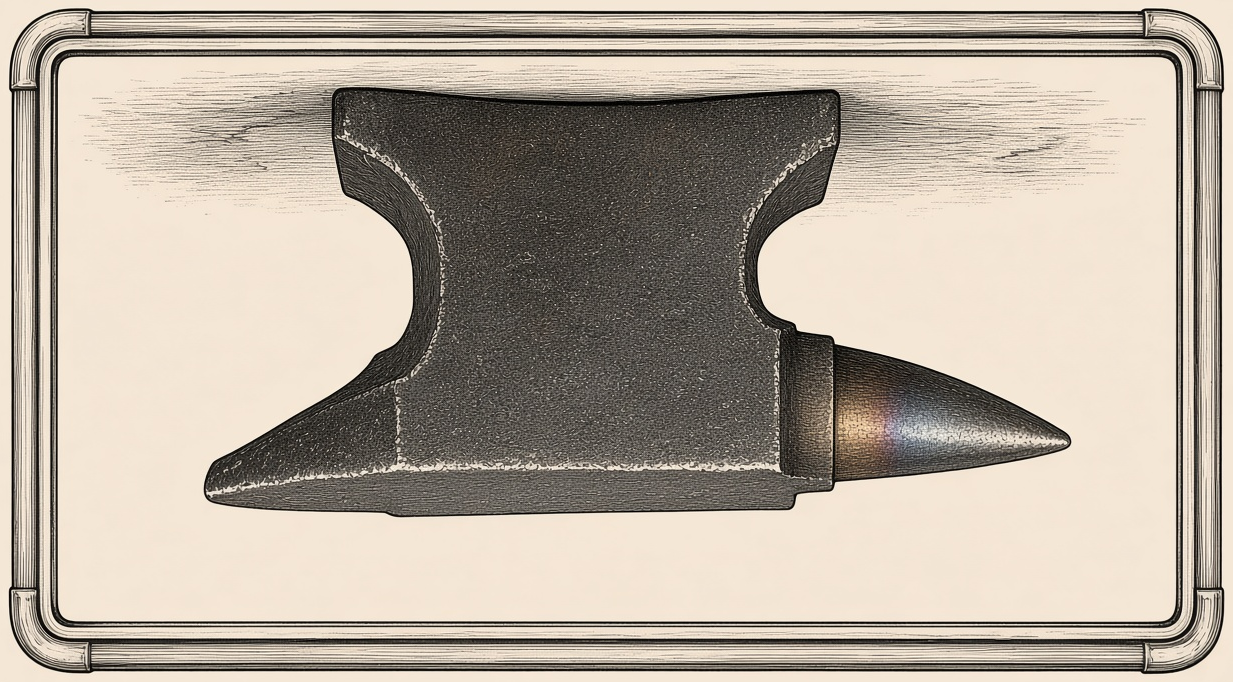
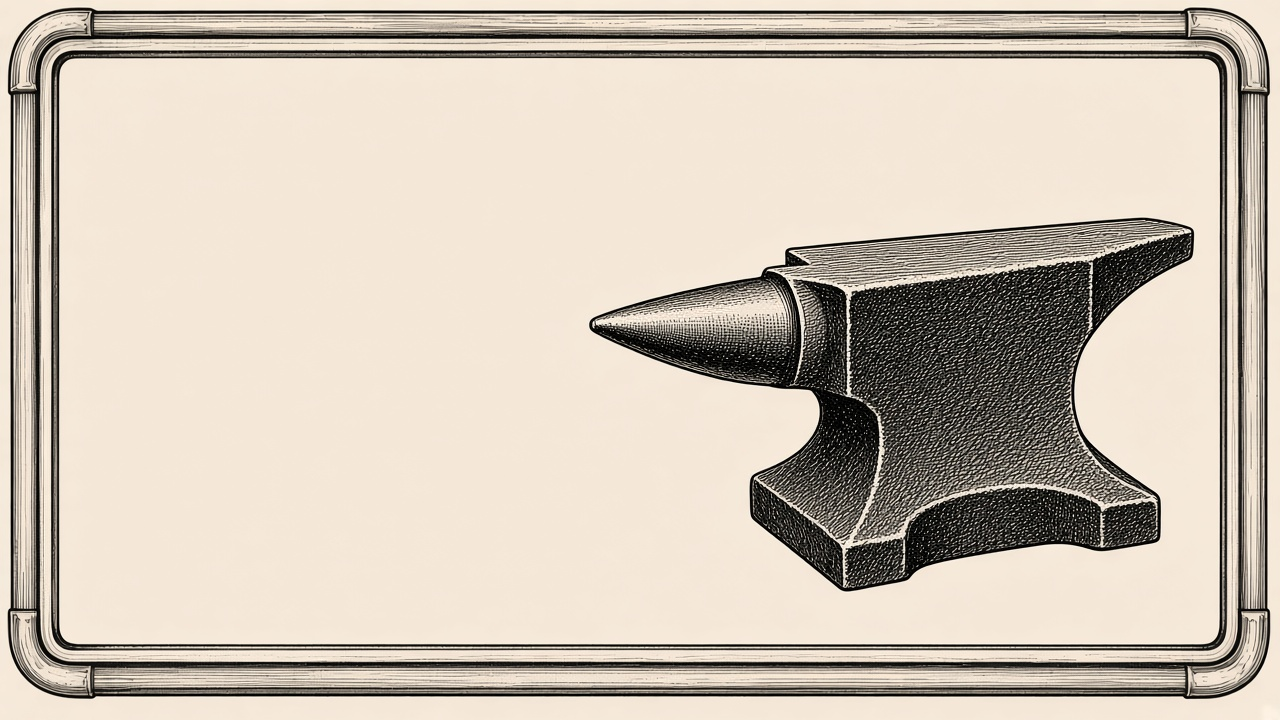
fixed images

diff --git a/styles.css b/styles.css
@@ -404,6 +404,7 @@ body {
 .embed-img {
   display: block;
   width: 100%;
+  max-width: 100%;
   height: auto;
   aspect-ratio: 1;
   object-fit: cover;
@@ -417,13 +418,21 @@ body {
 .product-ave .embed,
 .product-ave .embed-sheet {
   height: auto;
+  min-width: 0;
+  max-width: 100%;
+  width: 100%;
+  aspect-ratio: 16 / 9;
 }
 
 .product-ave .embed-img {
-  aspect-ratio: auto;
+  position: absolute;
+  inset: 0;
   width: 100%;
-  height: auto;
-  max-height: min(42rem, 78vh);
+  max-width: none;
+  height: 100%;
+  aspect-ratio: auto;
+  max-height: none;
+  min-width: 0;
   min-height: 0;
   object-fit: contain;
   object-position: center;
@@ -443,15 +452,11 @@ body {
     );
 }
 
-.embed-steel {
-  background: var(--steel);
-}
-
-.embed-steel .embed-img {
-  object-position: 50% 54%;
-  object-fit: cover;
+.product-anvil .embed-img {
   aspect-ratio: auto;
-  height: 100%;
+  object-fit: contain;
+  object-position: center left;
+  mix-blend-mode: multiply;
 }
 
 .sight-wrap figcaption {
@@ -477,65 +482,14 @@ body {
 }
 
 .product-anvil {
-  --bleed: calc(var(--pad-x) - var(--frame) - 5px);
-  isolation: isolate;
-  display: grid;
-  grid-template-columns: 1fr;
-  grid-template-rows: 1fr;
-  gap: 0;
-  width: auto;
-  max-width: none;
-  margin: 0 calc(var(--bleed) * -1);
-  padding: 0;
-  min-height: 0;
-  aspect-ratio: 16 / 9;
-  background: var(--steel);
-  color: var(--steel-type);
-  box-shadow: 0 0 0 1px rgba(0, 0, 0, 0.25);
-}
-
-.product-anvil .product-figure,
-.product-anvil .product-copy {
-  grid-area: 1 / 1;
+  grid-template-columns: minmax(16rem, 1.1fr) minmax(0, 0.9fr);
+  align-items: center;
 }
 
 .product-anvil .product-copy {
-  z-index: 2;
-  justify-self: end;
-  align-self: stretch;
-  width: min(42rem, 48%);
   display: flex;
   flex-direction: column;
   justify-content: center;
-  padding: clamp(1.5rem, 4vh, 3rem) calc(var(--bleed) + 0.6rem)
-    clamp(1.5rem, 4vh, 3rem) 1.25rem;
-  background: linear-gradient(
-    270deg,
-    var(--steel) 0%,
-    rgba(36, 29, 23, 0.94) 58%,
-    rgba(36, 29, 23, 0) 100%
-  );
-}
-
-.product-anvil .product-fig,
-.product-anvil .product-expand {
-  color: var(--steel-muted);
-}
-
-.product-anvil .product-figure,
-.product-anvil .embed,
-.product-anvil .embed-steel {
-  height: 100%;
-  min-height: 0;
-}
-
-.product-anvil .embed-img {
-  width: 100%;
-  height: 100%;
-  min-height: 0;
-  aspect-ratio: auto;
-  object-fit: cover;
-  object-position: 42% 64%;
 }
 
 .product-ave {
@@ -618,8 +572,7 @@ body {
 }
 
 .product-anvil .product-copy > p:last-child {
-  color: var(--steel-muted);
-  max-width: none;
+  max-width: 36ch;
 }
 
 .product-ave .product-copy > p:last-child {
@@ -629,6 +582,7 @@ body {
 .product-figure {
   position: relative;
   min-height: 100%;
+  min-width: 0;
 }
 
 .title-block {
@@ -702,8 +656,8 @@ a:focus-visible,
     width: min(100%, 22rem);
   }
 
-  .product-anvil .product-copy {
-    width: min(38rem, 52%);
+  .product-anvil {
+    grid-template-columns: minmax(14rem, 1fr) minmax(0, 1fr);
   }
 
   .product-ave .product-copy {
@@ -754,29 +708,13 @@ a:focus-visible,
     max-width: 100%;
   }
 
-  .product-anvil .product-copy {
-    order: 0;
-    width: 100%;
-    justify-self: stretch;
-    background: linear-gradient(
-      180deg,
-      var(--steel) 0%,
-      rgba(36, 29, 23, 0.94) 42%,
-      rgba(36, 29, 23, 0.2) 78%,
-      transparent 100%
-    );
-    padding: clamp(1.25rem, 4vh, 2rem) calc(var(--pad-x) + 0.15rem);
+  .product-anvil .product-figure {
+    order: -1;
   }
 
-  .product-anvil {
-    aspect-ratio: 4 / 5;
-  }
-
-  .product-anvil,
-  .product-anvil .product-figure,
-  .product-anvil .embed,
   .product-anvil .embed-img {
-    min-height: 0;
+    max-height: min(22rem, 52vh);
+    margin-inline: auto;
   }
 
   .sight-wrap {
@@ -819,9 +757,19 @@ a:focus-visible,
     padding: 1.15rem calc(var(--pad-x) + 0.15rem) 0.35rem;
   }
 
+  .product-ave .product-figure,
+  .product-ave .embed,
+  .product-ave .embed-img {
+    min-width: 0;
+    max-width: 100%;
+    width: 100%;
+  }
+
   .product-ave .embed-img {
     min-height: 0;
-    max-height: min(22rem, 58vh);
+    max-height: none;
+    object-fit: contain;
+    object-position: center;
   }
 
   .note {
@@ -904,8 +852,8 @@ a:focus-visible,
     padding-block: 0.55rem;
   }
 
-  .product-anvil {
-    aspect-ratio: 16 / 8;
+  .product-anvil .embed-img {
+    max-height: 58vh;
   }
 
   .product-ave .embed-img {

diff --git a/index.html b/index.html
@@ -118,13 +118,13 @@
 
         <section class="product product-anvil" id="anvil">
           <figure class="product-figure">
-            <div class="embed embed-steel">
+            <div class="embed embed-sheet">
               <img
-                class="embed-img anvil-img"
+                class="embed-img"
                 src="fig-01.png"
-                width="1024"
-                height="1024"
-                alt="A compact forged steel anvil with heat-blue on the horn."
+                width="970"
+                height="787"
+                alt="Ink drawing of a compact London-pattern anvil with heat-blue on the horn."
                 decoding="async"
               />
             </div>
@@ -149,9 +149,9 @@
               <img
                 class="embed-img"
                 src="fig-02.png"
-                width="1233"
-                height="682"
-                alt="Ink drawing of a wide looking-glass. The glass inverts the anvil from Fig. 01."
+                width="1280"
+                height="720"
+                alt="Ink drawing of a wide looking-glass reflecting the anvil from Fig. 01, standing upright."
                 decoding="async"
               />
             </div>
